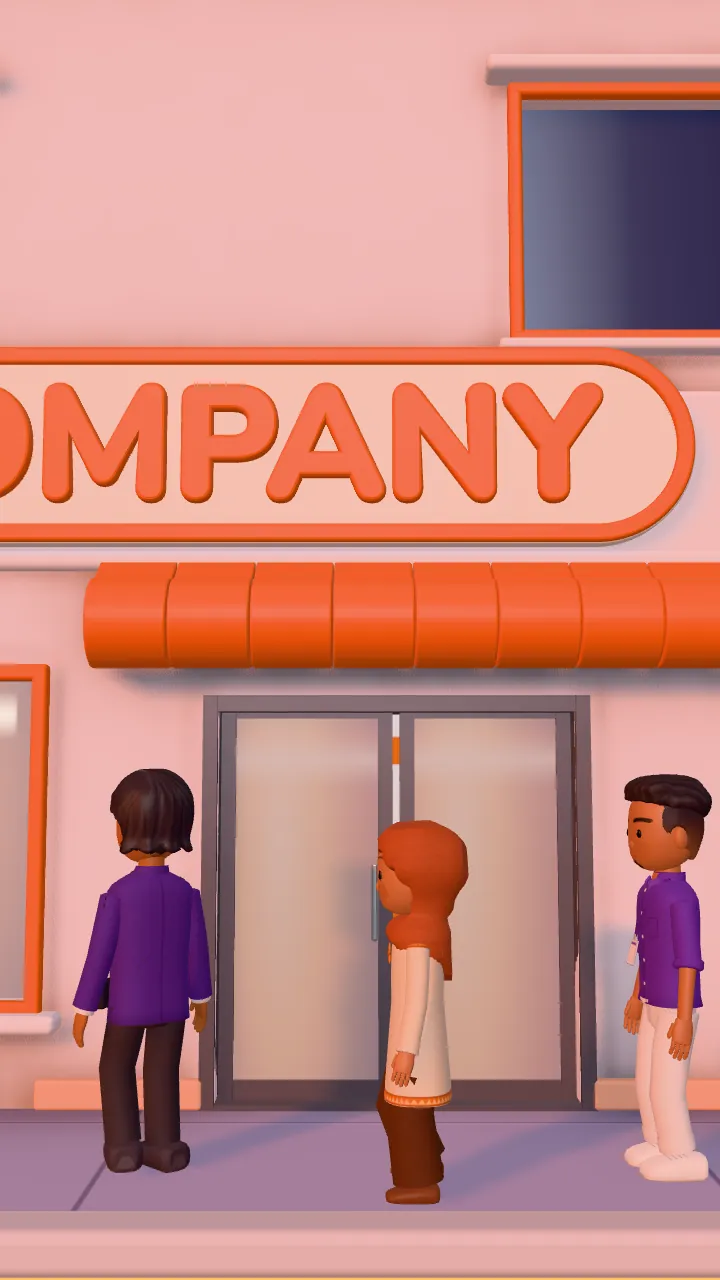
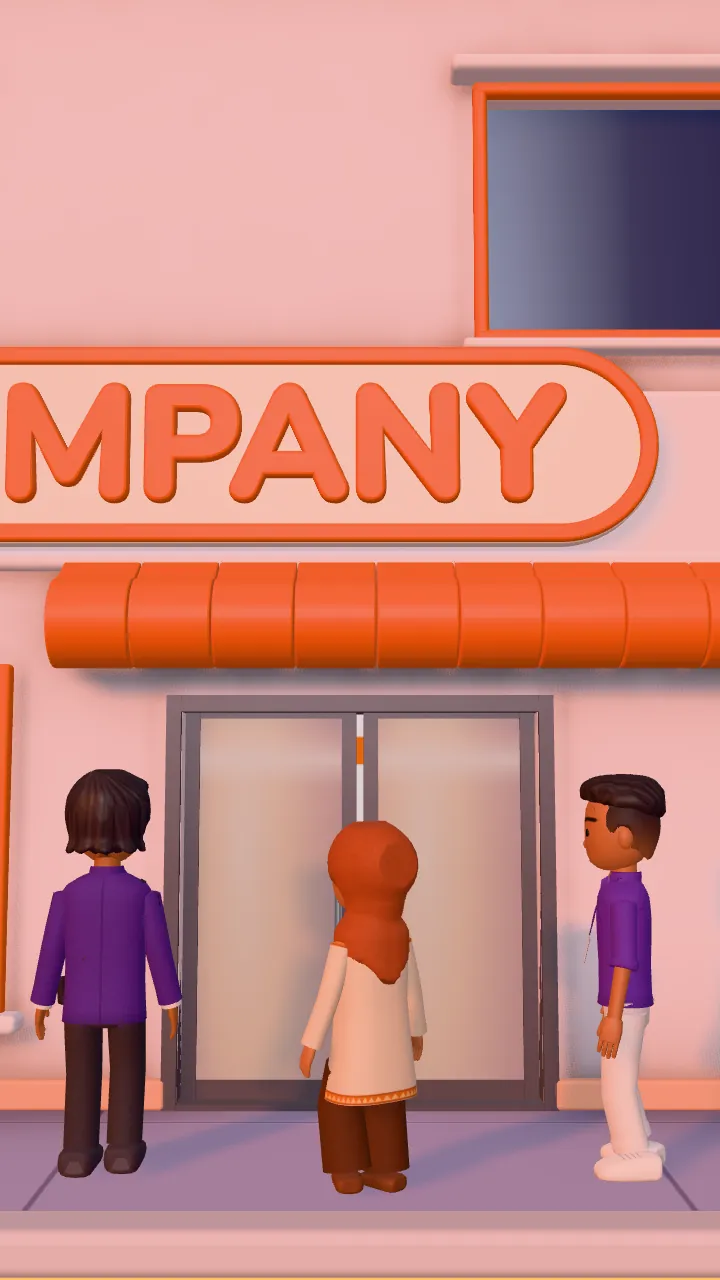
Show Heru and Wildan opening COMPANY's door on every screen
On a normal scroll the three reached COMPANY's door after the camera had
pushed in, so the leaves opened while it waited a metre from the door and
Heru and Wildan were out of frame (worst on phones). The camera now holds
on K11 until both leaves are open (about 2 s at 2 s per screen): the three
start 3 m nearer the door, Bu Dewi steps in 1.3x brisker, and the 9:16 K11
camera is centred on the door. K11 stills re-rendered.

Claude-Session: https://claude.ai/code/session_01QgwjwWcArJNHKoZawcYUug

diff --git a/site/world/takes/home/outsideCast.ts b/site/world/takes/home/outsideCast.ts
@@ -286,9 +286,11 @@ const W2 = new TimedWalk(
 /** COMPANY: along its pavement from the right to the door (DATA: the door's middle at x 0), the three in a line. */
 // (Heru and Wildan just outside the leaves' swing, at their free edges once open: video 22–23 s)
 const C_SPOT = { heru: V(-1.15, 1.15), dewi: V(0.05, 1.45), wildan: V(1.2, 1.15) };
-const HC = new TimedWalk([V(8.6, LANE9.heru), V(1.6, LANE9.heru), C_SPOT.heru], () => OUT_SPEED, 0.42, "R");
-const DC = new TimedWalk([V(9.6, 1.3), V(2.1, 1.3), C_SPOT.dewi], () => OUT_SPEED, 0.36, "L");
-const WC = new TimedWalk([V(10.6, 0.95), V(2.7, 0.95), C_SPOT.wildan], () => OUT_SPEED, 0.4, "R");
+// (they start 3 m nearer than they did, still out of the K11 frame on the right: on a steady scroll they walk in
+// behind it, and the camera waits on K11 for the leaves to open, about 2 s at 2 s per screen)
+const HC = new TimedWalk([V(5.6, LANE9.heru), V(1.6, LANE9.heru), C_SPOT.heru], () => OUT_SPEED, 0.42, "R");
+const DC = new TimedWalk([V(6.6, 1.3), V(2.1, 1.3), C_SPOT.dewi], () => OUT_SPEED, 0.36, "L");
+const WC = new TimedWalk([V(7.6, 0.95), V(2.7, 0.95), C_SPOT.wildan], () => OUT_SPEED, 0.4, "R");
 /** Facing COMPANY's door (−z). */
 const FACE_DOOR = Math.PI;
 /** The plaque's left edge less half a metre: past it, the three are out of the K9b frame. */
@@ -353,7 +355,8 @@ const BT_HIGH = BT.h6 + H6.timeAt((p) => p.z > 0 && p.x <= KREATEKNO.x0 - 3.5);
 // walks in between them into the front room and stops a few steps in, where the camera passes over her head.
 // (issue #23: she stops where Heru stands at K2, so K11.1, K2's own view, has her where it had him)
 const DEWI_K111 = V((DATA.heruK2.pc[0] + DATA.heruK2.hp[0]) / 2, (DATA.heruK2.pc[2] + DATA.heruK2.hp[2]) / 2);
-const DI = new TimedWalk([C_SPOT.dewi, V(0.02, 0.4), V(0.0, -0.8), DEWI_K111], () => OUT_SPEED, 0.36, "R");
+// (a brisker step in, so she is at her spot as the camera comes to K11.1)
+const DI = new TimedWalk([C_SPOT.dewi, V(0.02, 0.4), V(0.0, -0.8), DEWI_K111], () => OUT_SPEED * 1.3, 0.4, "R");
 /** Their timeline at COMPANY's door (clock seconds, after BT.end). */
 export const BT2 = (() => {
   const open: [number, number] = [BT.end + 0.2, BT.end + 1.4],

diff --git a/site/world/index.ts b/site/world/index.ts
@@ -983,6 +983,10 @@ export async function mount(host: HTMLElement, opts: WorldOptions = {}) {
       const companyGate = B12.into.s + (INTO.door - 0.1) * B12.into.len;
       if (gated * TAKE_SCREENS > companyGate && outClk.x < BT2.inside)
         gated = Math.min(gated, companyGate / TAKE_SCREENS);
+      // (it first holds on K11 until Heru and Wildan have pulled the leaves open: they walk in behind the scroll, and
+      // pushing in before that took them out of the frame, most of all on a phone; only while it is still there)
+      if (gated * TAKE_SCREENS > B12.into.s && view.x * TAKE_SCREENS <= B12.into.s + 1e-3 && outClk.x < BT2.open[1])
+        gated = Math.min(gated, B12.into.s / TAKE_SCREENS);
       // scrolled back past K4.2 while Heru and Bu Dewi are still in view in COMPANY's doorway: the camera waits out
       // there until they have walked back in and the leaves have shut (they vanished in one frame before, tahap 7)
       if (gated * TAKE_SCREENS < K42_PASS && outClk.x > OUT_BACK_GATE && seenAt(outClk.x))

diff --git a/site/world/takes/home/beat9.ts b/site/world/takes/home/beat9.ts
@@ -76,7 +76,7 @@ const K9B_HP = PLAQUE_COLS.map((c) => v(c.cx, P.y, PZ + c.w / 0.88 / 2 / HP_HTAN
 // 16:9: frontal, the facade (−6.9 … 4.7 m) across the width, the sign near the top, the door a little right of the
 // middle (video 20 s). 9:16: the door and the three in the middle, the sign's middle above
 const K11_PC = v(-1.2, 1.7, 8.7, 0, D2R(2), 36),
-  K11_HP = v(-0.2, 1.75, 7.2, 0, D2R(6), 52);
+  K11_HP = v(0, 1.75, 7.2, 0, D2R(6), 52);
 /** The K11 view for format blend t (where beats 12–13 start, takes/home/beat12). */
 export const k11View = (t: number) => mix(K11_PC, K11_HP, t);
 

diff --git a/PLAN.md b/PLAN.md
@@ -2438,3 +2438,21 @@ Detail di **[PLAN-SOLUSI.md](PLAN-SOLUSI.md)**: sumber v1, arsitektur etalase, d
   - still K11.1 dan K13 PC/HP dirender ulang (`tools/render/stills.mjs`, 35–60 KB); `stills.json` tidak berubah isinya (hanya format, dikembalikan);
   - typecheck, ESLint, Prettier, `next build`.
 - **Belum:** tes scroll real-time (2 s per layar) tidak bisa di container ini (SwiftShader ±1 frame/detik), jadi laju dan gerbang kamera dicek dari posisi scroll yang tidak berubah, bukan diukur; `issue4.mjs` belum dijalankan; komentar di issue #23 belum ditulis; tes HP fisik; review user. Issue #24 (pintu kayu ke dalam kelas, jalur lurus) belum dikerjakan; jalur K11.1 → K12 setelah kepala Bu Dewi masih jalur lama. Catatan copy v3: plakat meja "sesudah" dibaca di K13, yang sekarang view lebar K2.
+
+### 2026-11-15 (adegan pintu COMPANY tidak terlihat di HP, tanpa issue GitHub)
+
+- Laporan user: adegan Heru dan Wildan membukakan pintu COMPANY untuk Bu Dewi tidak terlihat di HP. Tanpa issue GitHub (keputusan user). `main` ditarik ke `origin/main` d577bac.
+- **Reproduksi** (build produksi port 3300, Playwright SwiftShader dengan jam palsu `page.clock`, `setTarget` + scroll halaman tiap 1/30 dtk, 2 dtk per layar dari K10 ke K11.1): jam ketiga tokoh tertinggal dari scroll (laju jalan maks 1,5×), jadi mereka baru tiba di pintu setelah jeda K11 lewat. Daun pintu dibuka (jam 93,3–94,5) saat kamera sudah ditahan gerbang pintu (`companyGate`, z ±2,25 m). Kepala Heru / Wildan di ndc x: HP 375×812 −4,5 / +5,3, tablet 768×1024 −3,5 / +4,0, PC 1280×720 −1,5 / +1,6. Semuanya di luar frame, hanya Bu Dewi yang terlihat. Di mode `?shot` (jam selalu sinkron) pembukaan terlihat hanya ±0,18 layar di view K11.
+- **Keputusan user:** perbaikan dipakai di PC dan HP; jeda kamera ±2 dtk, langkah Bu Dewi masuk dipercepat; kamera K11 HP digeser ke tengah; tidak perlu issue GitHub.
+- **Perubahan:**
+  - `world/index.ts`: gerbang baru menahan kamera di ujung jeda K11 sampai kedua daun terbuka penuh (`BT2.open[1]`), hanya selama kamera belum meninggalkan K11 (tidak menarik kamera mundur, tidak berlaku saat scroll mundur);
+  - `takes/home/outsideCast.ts`: Heru, Bu Dewi dan Wildan mulai 3 m lebih dekat ke pintu (x 5,6 / 6,6 / 7,6, sebelumnya 8,6 / 9,6 / 10,6; tetap di luar frame K11 kanan), jadi jeda kamera ±2 dtk; langkah Bu Dewi masuk 1,3× (`DI`);
+  - `takes/home/beat9.ts`: `K11_HP` x −0,2 → 0 (Heru dan Wildan seimbang, bahu Wildan tidak terpotong);
+  - still K11 PC/HP dirender ulang (`stills.json` isinya sama, dikembalikan).
+- **Dicek** (jam palsu, 30 fps simulasi; screenshot hanya di chat):
+  - maju 2 dtk/layar: kamera diam di K11 2,1 dtk (HP, tablet, PC sama); kedua daun dibuka seluruhnya selama kamera di K11; Heru / Wildan HP −0,70 / +0,73, tablet −0,40 / +0,70, PC 0,01 / 0,55; Bu Dewi di tempatnya 0,3 dtk setelah kamera tiba di K11.1 (sebelumnya ±1,2 dtk);
+  - maju 0,6 dtk/layar (HP): diam 1,0 dtk, pembukaan tetap di view K11; maju 4 dtk/layar (HP): diam 1,2 dtk, Bu Dewi sudah di tempatnya sebelum kamera tiba;
+  - mundur 2 dtk/layar (HP, PC): kamera mundur mulus K11.1 → K11 → langit, tidak pernah maju, maks 9,0 / 7,8 m/s;
+  - anggaran saat pintu terbuka di K11 (HUD): 111 draw call / 144,5 rb segitiga (HP), di bawah 120 / 150 rb;
+  - typecheck, ESLint dan Prettier untuk file yang diubah, `next build`.
+- **Belum:** tes HP fisik; `issue4.mjs` (butuh GPU). Belum di-commit (menunggu konfirmasi user).
